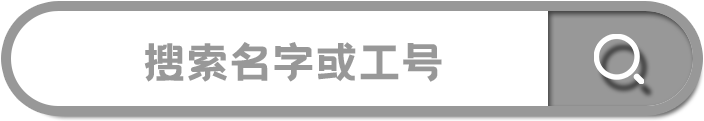
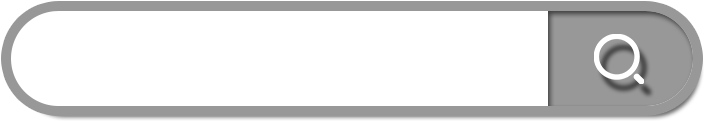
no message

Changed region(s): [[0.1875, 0.3471, 0.625, 0.6694]]

diff --git a/src/views/ApplyListView.vue b/src/views/ApplyListView.vue
@@ -1,7 +1,11 @@
 <template>
   <div style="height:100%;">
     <div class="apply_list_bg">
-      <input class="input_search" type="text" maxlength="20" v-model="queryParmas.queryParmas" size="small" placeholder="">
+      <div class="input_search">
+        <input type="text" maxlength="20" v-model="queryParmas.queryParmas" placeholder="" />
+        <img src="@/assets/img/proof_placeholder.png"/>
+      </div>
+
       <div class="apply_list_box">
         <ul>
           <li v-for="(ele,index) in applyList" v-bind:key='ele.id'>
@@ -45,6 +49,12 @@ export default {
   created () {
     this.getApplyList()
   },
+  mounted () {
+    window.addEventListener('scroll', this.handleScroll, true)
+  },
+  unmounted () {
+    window.removeEventListener('scroll', this.handleScroll)
+  },
   methods: {
     getApplyList () {
       this.queryParmas.queryParmas = decodeURI(this.queryParmas.queryParmas)
@@ -76,7 +86,11 @@ export default {
     },
     showUploadPic () {
       this.postApply()
-      // this.step = 1
+    },
+    handleScroll (e) {
+      if (e.target.scrollTop + e.target.clientHeight >= e.target.scrollHeight) {
+        console.log('load more')
+      }
     }
   }
 }
@@ -104,6 +118,7 @@ export default {
     margin-top: 12vw;
     width: 61vw;
     height: 10.8vw;
+    padding: 0 14vw 0 4vw;
     background-repeat: no-repeat;
     background-size: cover;
     background-position: center center;
@@ -120,8 +135,17 @@ export default {
 }
 
 .input_search{
-  background-image: url('@/assets/img/apply_list_search.png');
-  margin-bottom: 3.5vw;
+  position: relative;
+  input{
+    background-image: url('@/assets/img/apply_list_search.png');
+    margin-bottom: 3.5vw;
+  }
+  img{
+     width: 80%;
+     position: absolute;
+     top: 0;
+     left: 0;
+  }
 }
 .apply_list_down{
    img{

diff --git a/src/views/ProofView.vue b/src/views/ProofView.vue
@@ -54,23 +54,24 @@ export default {
   },
   methods: {
     postProof () {
-      this.checkForm()
-      const form = {
-        userName: this.formData.name,
-        userNumber: this.formData.number,
-        mediaProof: this.formData.mediaProof,
-        veidoUrl: this.formData.veidoUrl
-      }
-      api.postProof(form).then((res) => {
-        if (res.code === 200) {
-
-        } else {
-          this.$message.error(res.msg)
+      if (this.checkForm()) {
+        const form = {
+          userName: this.formData.name,
+          userNumber: this.formData.number,
+          mediaProof: this.formData.mediaProof,
+          veidoUrl: this.formData.veidoUrl
         }
-      })
-        .catch((res) => {
-          this.$message.error(res)
+        api.postProof(form).then((res) => {
+          if (res.code === 200) {
+
+          } else {
+            this.$message.error(res.msg)
+          }
         })
+          .catch((res) => {
+            this.$message.error(res)
+          })
+      }
     },
     checkForm () {
       if (!this.formData.name) {
